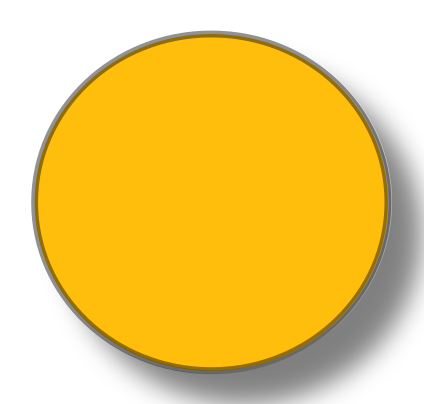
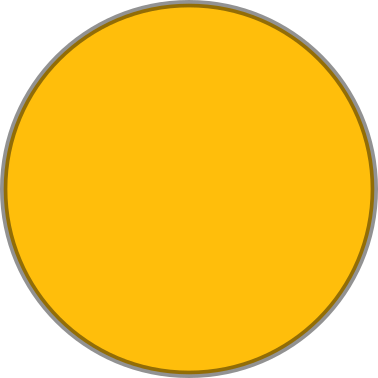
Add shadows to images and boxes

Changed region(s): [[0.0, 0.0, 1.0, 1.0]]

diff --git a/css/main.css b/css/main.css
@@ -10,7 +10,7 @@ h1{
 body {
 	font-family: 'Fredoka One', cursive;
 	 background-image: url("https://picsum.photos/1000/800.jpg");
-	background-size: 100% 120%; */
+	background-size: 100% 120%;
 }
 
 .main {
@@ -51,6 +51,13 @@ body {
 .board-cell {
 	background-color: rgba(255, 255, 255, 0.856);
 	text-align: center;
+
+box-shadow: inset 8.3px 8.3px 17px 1px rgba(0,0,0,0.5);
+}
+
+.board-cell:hover{
+	box-shadow: none;
+	cursor: pointer;
 }
 
 .player-box{
@@ -86,12 +93,11 @@ body {
 	grid-column: 2 / 2;
 	text-align: center;
 }
+
 .reset:hover i{
 	box-shadow: 0px 0px 25px 14px rgba(230,118,21,1);
 	color: rgba(255, 255, 255, 0.9);
-
 }
-
 
 .p2 {
 	grid-column: 4 / -1;
@@ -106,11 +112,20 @@ body {
 }
 
 .x {
+	background-image: url("/img/x_s.png");
+	background-size: cover;
+}
+
+.x:hover {
 	background-image: url("/img/x.png");
 	background-size: cover;
 }
 
 .o {
+	background-image: url("/img/o_s.png");
+	background-size: cover;
+}
+.o:hover {
 	background-image: url("/img/o.png");
 	background-size: cover;
 }

diff --git a/js/main.js b/js/main.js
@@ -10,18 +10,14 @@ const board = document.getElementById('board');
 const cells = document.querySelectorAll('.board-cell');
 const p1Badge = document.getElementById('p1-badge');
 const p2Badge = document.getElementById('p2-badge');
-const resetBtn = document.getElementById('reset-btn')
+const resetBtn = document.getElementById('reset-btn');
 // const players = document.querySelectorAll('.player-badge');
 
 let game;
 const player1 = gameLogic.Player();
 const player2 = gameLogic.Player();
 
-const gameInit = () => {
-  game = gameLogic.Game(player1, player2);
-  clearBoard();
-  showActivePlayer();
-};
+
 
 const showActivePlayer = () => {
   if (game.currentTurn() === player1) {
@@ -44,6 +40,12 @@ const clearBoard = () => {
     }
     game.board.clearBoard();
   });
+};
+
+const gameInit = () => {
+  game = gameLogic.Game(player1, player2);
+  clearBoard();
+  showActivePlayer();
 };
 
 const showWinner = () => {
